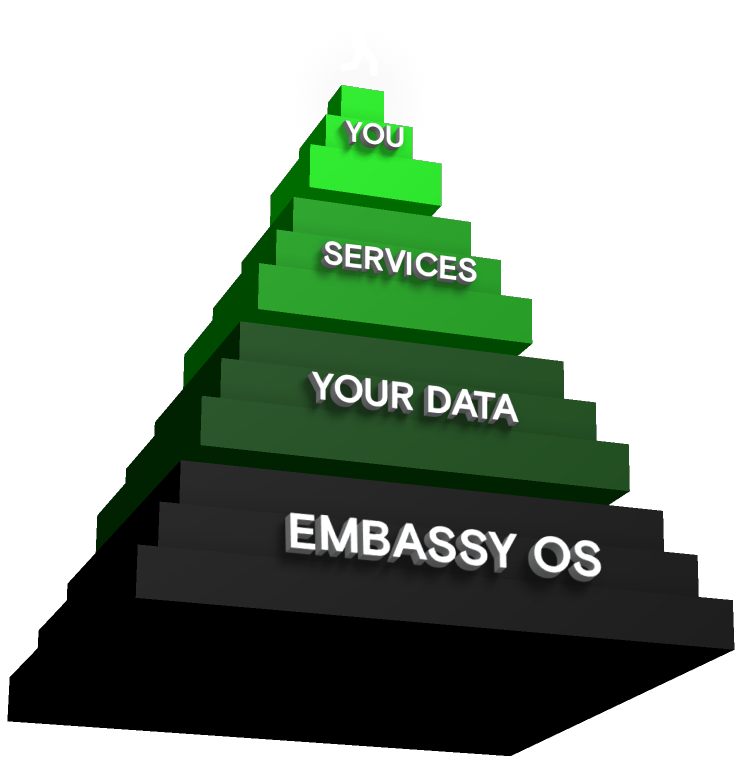
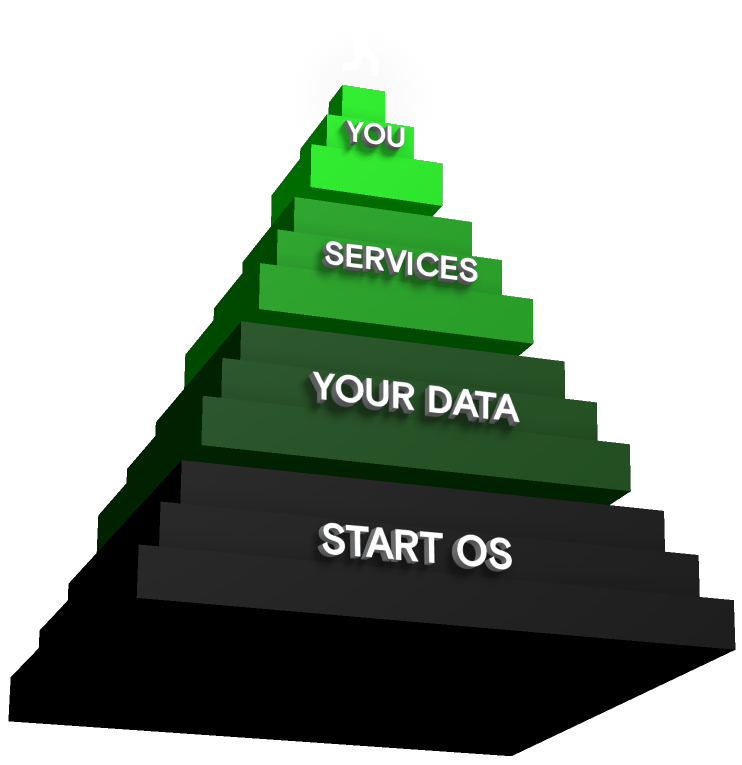
more renames and edit graphic

diff --git a/src/_data/site.js b/src/_data/site.js
@@ -8,8 +8,8 @@ module.exports = {
   products: {
     buyUrl: 'https://store.start9.com',
     diyUrl: 'https://docs.start9.com/latest/diy',
-    one: 'https://store.start9.com/collections/embassy/products/embassy-one',
-    pro: 'https://store.start9.com/products/embassy-pro-presale',
+    one: 'https://store.start9.com/products/server-one',
+    pro: 'https://store.start9.com/products/server-pro',
     gear: 'https://store.start9.com/collections/apparel'
   },
   bitcoin: {
